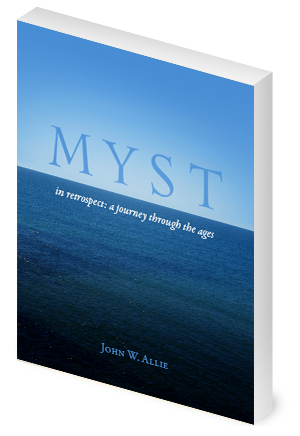
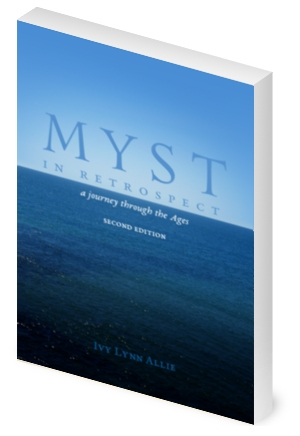
Updated Myst page for new edition

diff --git a/myst/index.html b/myst/index.html
@@ -4,11 +4,10 @@ layout: default
 categories: [videogames]
 ---
 <img src="/assets/images/myst/mystebook.jpg" style="float:right;" class="disposable"/>
-<p><em>Myst in Retrospect</em> is a series of critical essays on the <em>Myst</em> adventure game series which appeared on my blog from 2012 through 2013. A complete anthology, in print or ebook format, is <a href="https://www.amazon.com/Myst-Retrospect-Journey-Through-Ages/dp/1540659690/">now available</a>!
-</p>
+<p><em>Myst in Retrospect</em> is a series of critical essays on the <em>Myst</em> adventure game series which appeared on my blog from 2012 through 2013.</p>
+<p>In honor of the 30th anniversary of the series, I have prepared a new edition of these essays which will be available online and in book form very soon.</p>
+
 <h2>Essay index</h2>
-
-
 
 <ol class="title-index">
     <li><a href="./myst">Myst.</a>  Bring the red pages! Or the blue pages.</li>
@@ -27,18 +26,8 @@ categories: [videogames]
 
 
 
-<h2 style="clear:both;">About the anthology</h2>
-<p>In addition to the original essays (revised and expanded!) the anthology includes the following exclusive content:</p>
-<ul>
-<li>A complete examination of the games' music</li>
-<li>Feminist analysis of the series</li>
-<li>A look at the weirdness that was the comic books</li>
-<li>An essay covering <em>realMyst</em></li>
-</ul>
-<p>So don't miss out! <a href="https://www.amazon.com/Myst-Retrospect-Journey-Through-Ages/dp/1540659690/">buy your copy</a> today!</p>
-
-<h2>Frequently Asked Question</h2>
-<p><strong>Q.</strong> Why do you always refer to the player character as "she"?</p>
-<p><strong>A.</strong> I don't. I refer to the player character as "she" half of the time and "he" the other half
-of the time. However, this has not stopped many people from asking this question and were I to put this through
-another round of editing I think I would take a different approach.</p>
+<h2 style="clear:both;">About the second edition of the anthology</h2>
+<p>The second edition of the anthology is revised and expanded, featuring an original illustration for every chapter,
+a new chapter about <em>Myst</em> remakes (and covering the 2021 VR version), and additional supplemental material
+throughout.</p>
+<p>The book will be available very soon. Watch this page for details!</p>
